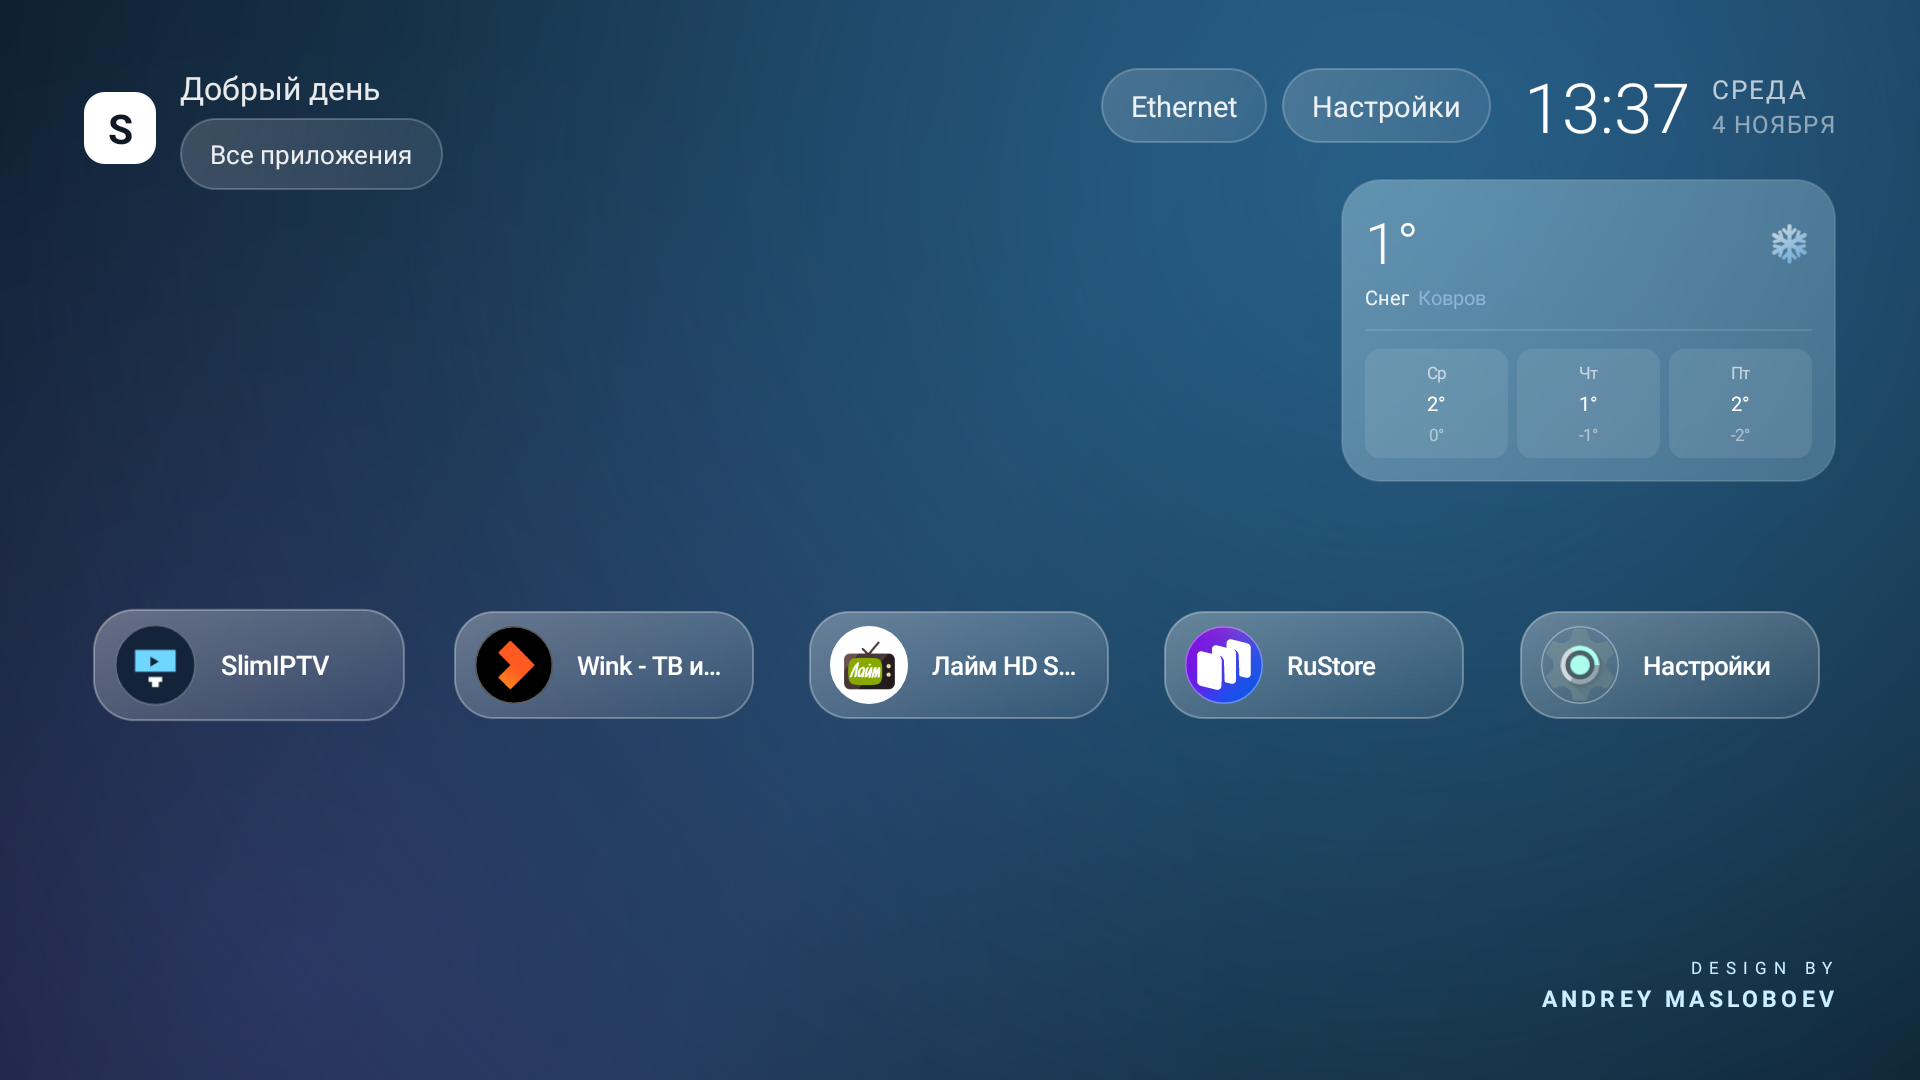
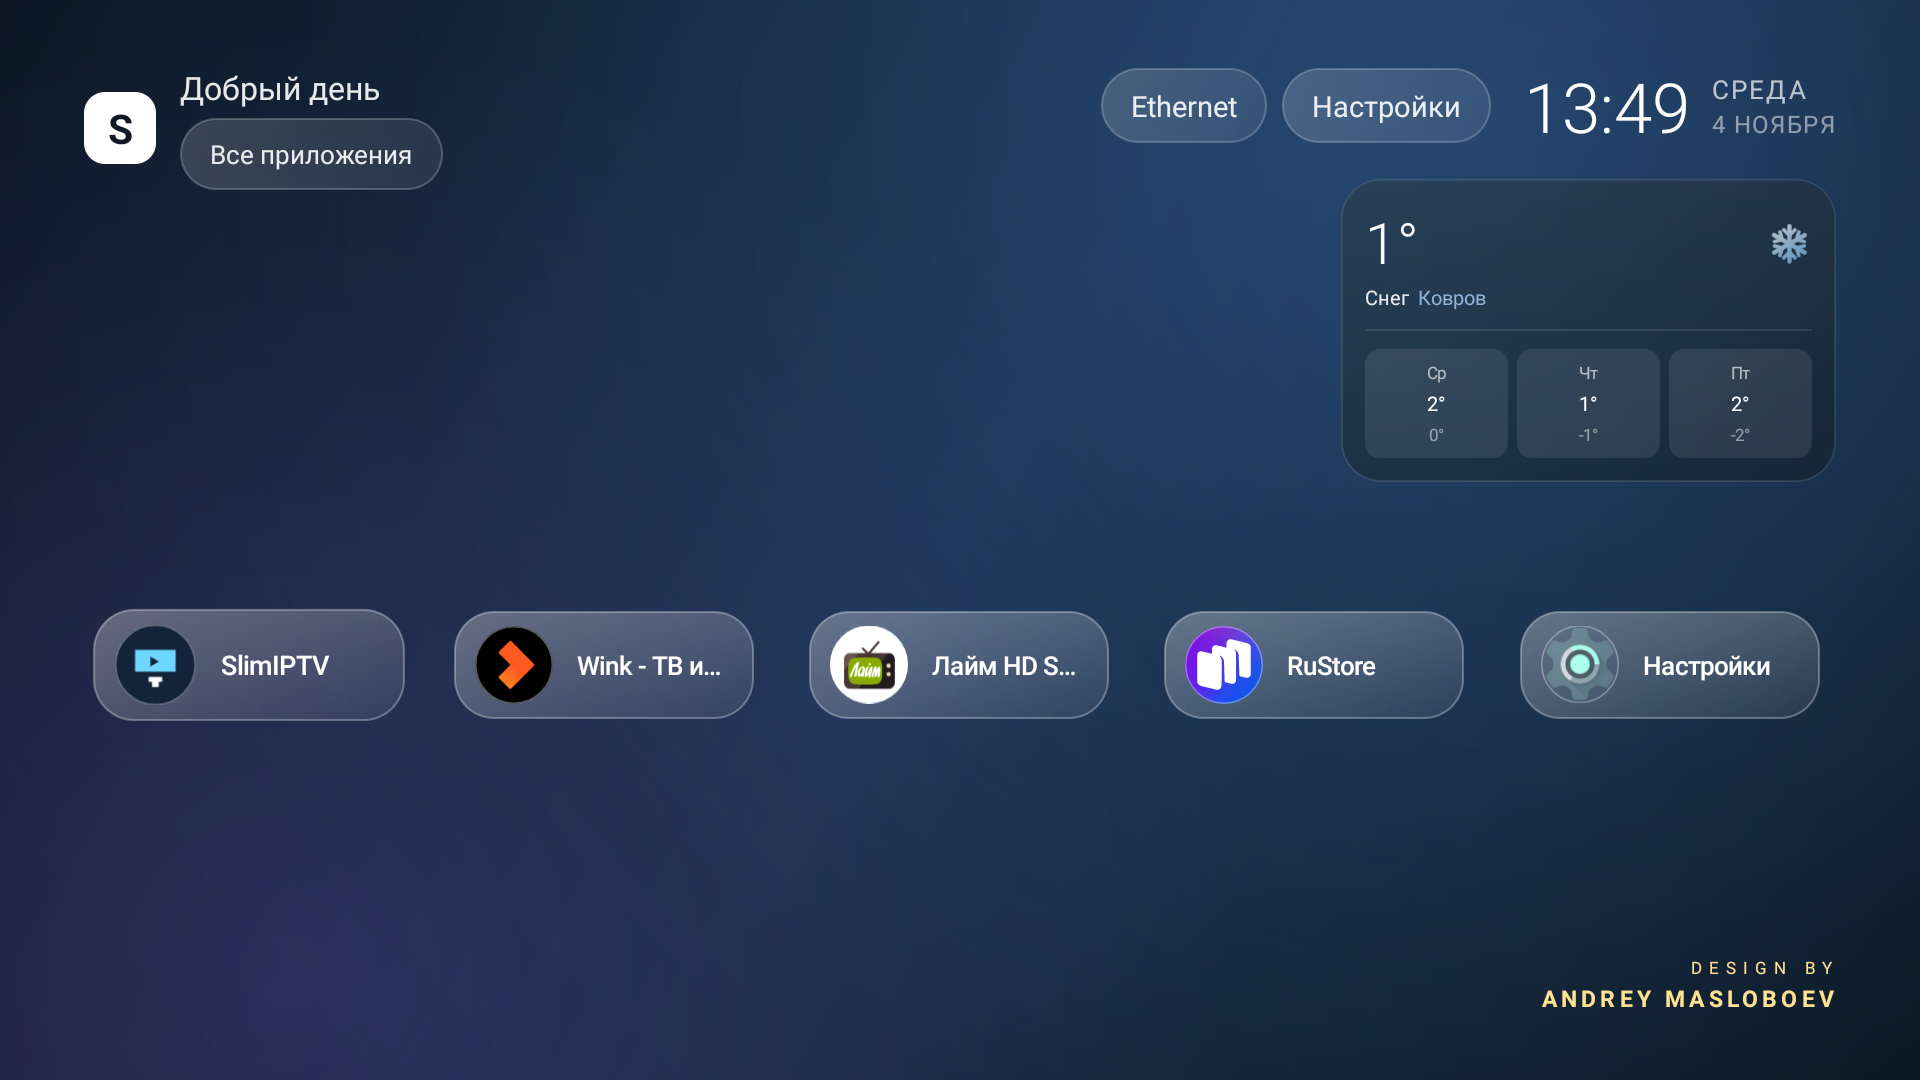
SlimHome 2.4: карточка погоды вписана в фон

diff --git a/app/src/main/java/com/slimhome/launcher/MainActivity.java b/app/src/main/java/com/slimhome/launcher/MainActivity.java
@@ -967,36 +967,48 @@ public class MainActivity extends Activity {
             if (temp == Integer.MIN_VALUE) {              // данные ещё не пришли
                 topColor = 0xFF101826;
                 bottomColor = 0xFF0B1220;
-            } else if (temp <= -10) {                     // сильный мороз
-                topColor = 0xFF8FB4E8;
-                bottomColor = 0xFF5B7FC0;
+            } else if (temp <= -10) {                     // сильный мороз — тёмно-синее стекло
+                topColor = 0xFF1B2A44;
+                bottomColor = 0xFF0E1726;
             } else if (temp <= 0) {                       // мороз
-                topColor = 0xFF9CC0EA;
-                bottomColor = 0xFF6C90C8;
+                topColor = 0xFF1D2C46;
+                bottomColor = 0xFF101A29;
             } else if (temp <= 10) {                      // прохладно
-                topColor = 0xFF9CC6DB;
-                bottomColor = 0xFF6E9BB5;
+                topColor = 0xFF1B2C34;
+                bottomColor = 0xFF0F191F;
             } else if (temp <= 20) {                      // тепло
-                topColor = 0xFFA9D6C4;
-                bottomColor = 0xFF77B49E;
+                topColor = 0xFF1A2C26;
+                bottomColor = 0xFF0E1A16;
             } else if (temp <= 28) {                      // жарко
-                topColor = 0xFFF0CE9A;
-                bottomColor = 0xFFD6A85E;
+                topColor = 0xFF2E2616;
+                bottomColor = 0xFF1A150B;
             } else {                                      // очень жарко
-                topColor = 0xFFF2B08A;
-                bottomColor = 0xFFD98A5A;
+                topColor = 0xFF33221A;
+                bottomColor = 0xFF1D130E;
             }
 
-            android.graphics.drawable.GradientDrawable g =
+            android.graphics.drawable.GradientDrawable base =
                     new android.graphics.drawable.GradientDrawable(
                             android.graphics.drawable.GradientDrawable.Orientation.TL_BR,
                             new int[]{topColor, bottomColor});
-            g.setCornerRadius(dp(26));
-            g.setStroke(dp(1), 0x4DFFFFFF);
+            base.setCornerRadius(dp(26));
+            base.setStroke(dp(1), 0x33FFFFFF);
+
+            // тонкий блик сверху — стекло, а не заливка
+            android.graphics.drawable.GradientDrawable shine =
+                    new android.graphics.drawable.GradientDrawable(
+                            android.graphics.drawable.GradientDrawable.Orientation.TOP_BOTTOM,
+                            new int[]{0x14FFFFFF, 0x00FFFFFF});
+            shine.setCornerRadius(dp(26));
+
+            android.graphics.drawable.LayerDrawable layered =
+                    new android.graphics.drawable.LayerDrawable(
+                            new android.graphics.drawable.Drawable[]{base, shine});
+            layered.setLayerInset(1, dp(1), dp(1), dp(1), dp(1));
 
             int transp = Math.max(0, Math.min(90, prefInt("weather_alpha", 50)));
-            g.setAlpha(255 - (255 * transp / 100));
-            card.setBackground(g);
+            layered.setAlpha(255 - (255 * transp / 100));
+            card.setBackground(layered);
         } catch (Throwable ignored) { }
     }
 
